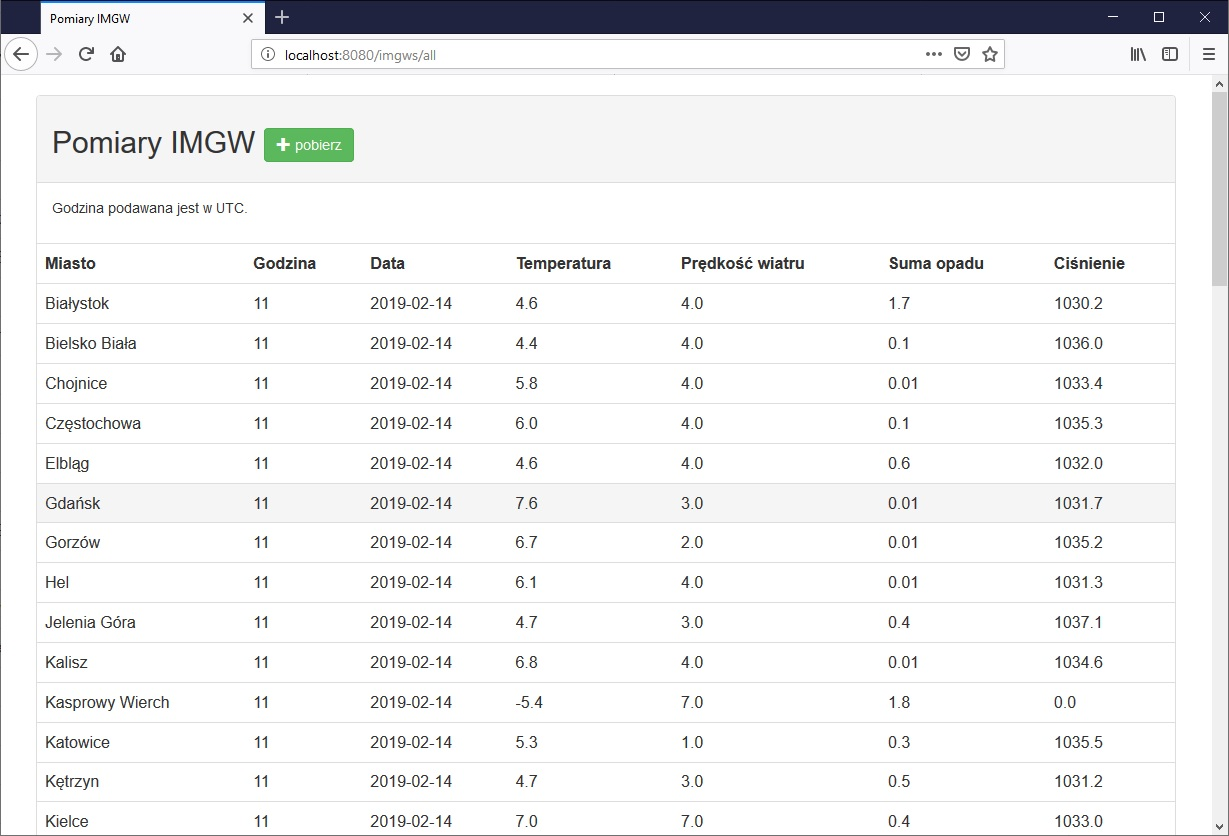
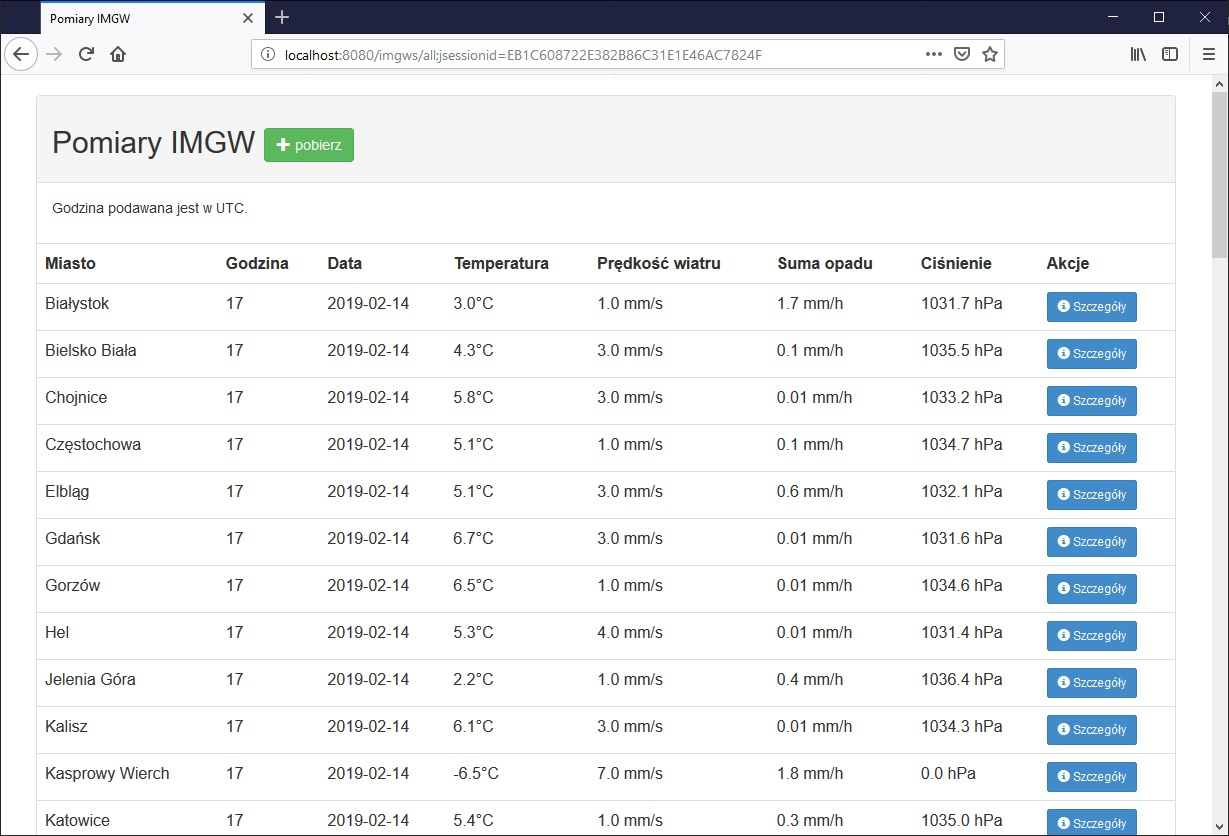
weather | drobne usprawnienia

diff --git a/weather/src/main/java/weather/controller/IMGWController.java b/weather/src/main/java/weather/controller/IMGWController.java
@@ -4,8 +4,10 @@ import org.springframework.beans.factory.annotation.Autowired;
 import org.springframework.stereotype.Controller;
 import org.springframework.ui.Model;
 import org.springframework.web.bind.annotation.RequestMapping;
+import org.springframework.web.bind.annotation.RequestParam;
 import org.springframework.web.servlet.ModelAndView;
 
+import weather.domain.IMGW;
 import weather.domain.json.IMGWjson;
 import weather.domain.repository.IMGWRepository;
 
@@ -22,6 +24,13 @@ public class IMGWController {
 		modelAndView.addObject("imgws", imgwrepository.getDataFromWeb());
 		modelAndView.setViewName("imgws");
 		return modelAndView;
+	}
+	
+	@RequestMapping("/station")
+	public String measurement(@RequestParam("id") String numer_stacji, Model model) {
+		IMGW imgw = imgwrepository.getMeasurWhereId(numer_stacji);		
+		model.addAttribute("imgw", imgw);		
+		return "station";
 	}
 	
 	@RequestMapping("/download")

diff --git a/weather/src/main/java/weather/domain/repository/impl/IMGWRepositoryImpl.java b/weather/src/main/java/weather/domain/repository/impl/IMGWRepositoryImpl.java
@@ -12,9 +12,32 @@ import weather.domain.repository.IMGWRepository;
 public class IMGWRepositoryImpl implements IMGWRepository {
 	
 	private IMGWjson imgwjson = new IMGWjson();
+	private ArrayList<IMGW> imgwlist = new ArrayList<IMGW>(); 
+
+	public IMGWRepositoryImpl() {
+		super();
+		imgwlist = imgwjson.download();
+	}
 
 	public ArrayList<IMGW> getDataFromWeb() {
-		return imgwjson.download();
+		return imgwlist;
+	}
+	
+	public IMGW getMeasurWhereId(String numer_stacji) {
+		IMGW measurById = null;
+		
+		for(IMGW measur : imgwlist) {
+			if(measur != null && measur.getId_stacji() != null && measur.getId_stacji().equals(numer_stacji)){
+				measurById = measur;
+				break;
+			}
+		}
+
+		if(measurById == null){
+			throw new IllegalArgumentException("Brak stacji o wskazanym id: "+ numer_stacji);
+		}
+
+		return measurById;
 	}
 
 }

diff --git a/weather/src/main/java/weather/domain/repository/IMGWRepository.java b/weather/src/main/java/weather/domain/repository/IMGWRepository.java
@@ -7,4 +7,6 @@ import weather.domain.IMGW;
 public interface IMGWRepository {
 	
 	ArrayList<IMGW> getDataFromWeb();
+
+	IMGW getMeasurWhereId(String numer_stacji);
 }

diff --git a/weather/readme.md b/weather/readme.md
@@ -2,6 +2,9 @@
 
 ## Funkcjonalności
 * pobieranie danch ze stacji IMGW,
+* prezentacja listy pomiarów,
+* karta pomiarów z wybranej stacji,
 
 ## Podgląd
 ![imgw_all](img/imgw_all.jpg)
+![imgw_station](img/imgw_station.jpg)
